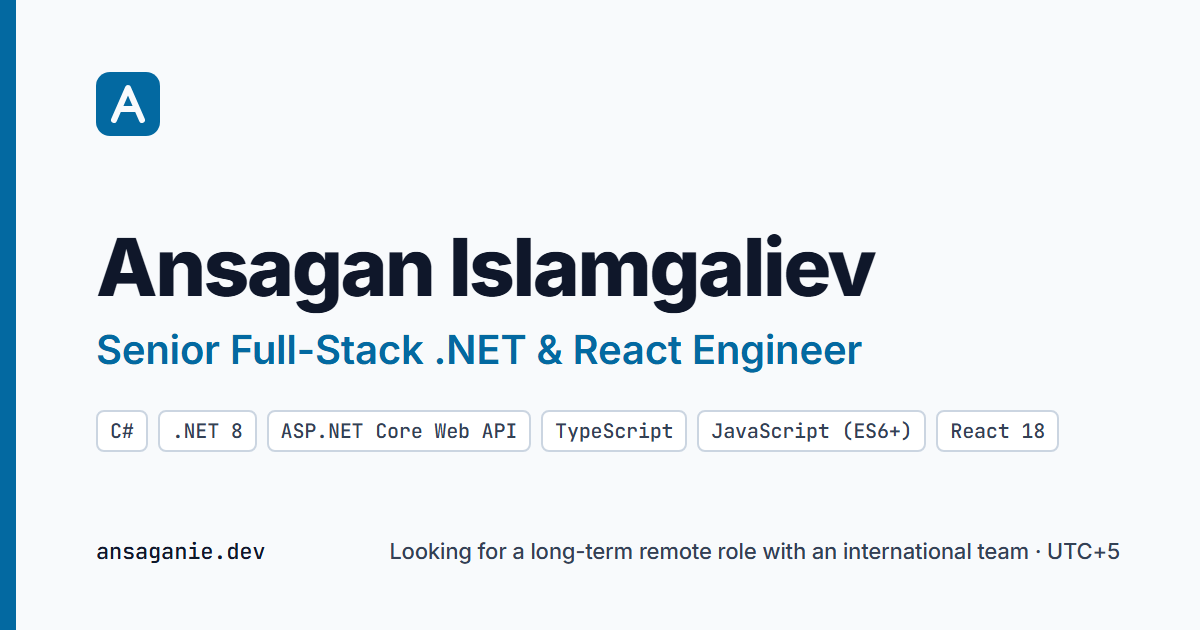
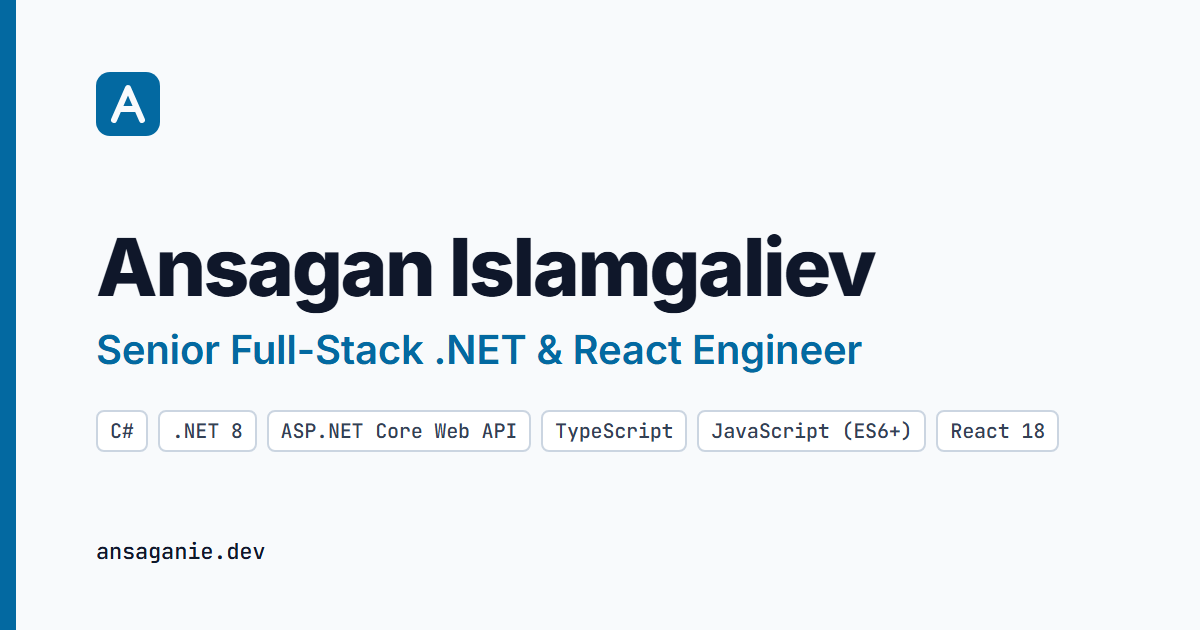
feat(content): update web skills pitch and remove availability badge (#0018) (#7)

Changed region(s): [[0.3083, 0.8444, 0.925, 0.9048]]

diff --git a/src/schemas/cv.ts b/src/schemas/cv.ts
@@ -89,7 +89,7 @@ export const contactInfoSchema = z.object({
   linkedin: z.string().url(),
   github: z.string().url(),
   location: z.string(),
-  availability: z.string(),
+  availability: z.string().optional(),
 });
 
 export const candidateProfileSchema = z.object({

diff --git a/scripts/og-image.html b/scripts/og-image.html
@@ -88,7 +88,6 @@
     </main>
     <footer>
       <span class="url">{{host}}</span>
-      <span>{{availability}}</span>
     </footer>
   </body>
 </html>

diff --git a/docs/wayfinder/MAP.md b/docs/wayfinder/MAP.md
@@ -39,6 +39,7 @@ A production-deployed, multilingual (`/`, `/ru`, `/kk`) 2-page Live CV website (
 - [SEO launch basics](tickets/0012-seo-launch-basics.md): every URL ends in a slash (`trailingSlash` in Astro and Vercel), and nav, switcher, canonical, hreflang and the sitemap come from one `astro:i18n`-based helper. Added `@astrojs/sitemap` with i18n, `robots.txt`, a trilingual noindex 404, favicon SVG/ICO/touch icon, and a 1200×630 English `og:image` with `summary_large_image` and `og:locale:alternate`, rendered by `deno task generate:images`. On branch `feat/0012-seo-launch-basics`; production check after merge.
 - [Custom domain ansaganie.dev](../adr/0004-custom-domain-ansaganie-dev.md) (ADR 0004): registered `ansaganie.dev` at Cloudflare Registrar, assigned to Vercel with DNS-only CNAME records pointing to Vercel edge, and updated all canonical origins across the project (`astro.config.mjs`, `BaseLayout.astro`, `robots.txt`, `og-image.png`, `deploy.yml`, and README badges) to `https://ansaganie.dev`. `www.ansaganie.dev` and `ansaganie.vercel.app` redirect (308) to apex.
 - [Search engine registration](tickets/0017-search-engine-registration.md): verified site ownership and submitted sitemap to Google Search Console and Bing Webmaster Tools; deployed IndexNow key and automated post-deploy URL submission to api.indexnow.org; aligned off-site profile URLs on LinkedIn and GitHub to https://ansaganie.dev.
+- [New content grilling](tickets/0018-content-grilling.md): resolved all postponed audit items (D5) via HITL grilling. R-H1 (case-study pages) and R-H3 (public writing) ruled out of scope to preserve strictly 2 pages; R-M1 (expandable card fields) and R-H2 (photo & narrative block) rejected to keep scannability and ATS alignment. Completely eliminated availability status badge and metadata; updated elevator pitch to a general web-only skills introduction across EN, RU, and KK without company names.
 
 ## Tickets
 
@@ -59,7 +60,7 @@ A production-deployed, multilingual (`/`, `/ru`, `/kk`) 2-page Live CV website (
 - [x] [JSON-LD rebuild](tickets/0015-json-ld-rebuild.md) (`wayfinder:task`, AFK)
 - [x] [Overview visual pass](tickets/0016-overview-visual-pass.md) (`wayfinder:task`, AFK)
 - [x] [Search engine registration](tickets/0017-search-engine-registration.md) (`wayfinder:task`, HITL)
-- [ ] [New content grilling](tickets/0018-content-grilling.md) (`wayfinder:grilling`, HITL). Deferred (audit D5)
+- [x] [New content grilling](tickets/0018-content-grilling.md) (`wayfinder:grilling`, HITL)
 
 ## Not yet specified
 
@@ -70,3 +71,5 @@ A production-deployed, multilingual (`/`, `/ru`, `/kk`) 2-page Live CV website (
 - Dynamic backend / CMS server infrastructure (the site is static-first only).
 - Public blogging platform or commenting systems (scope is limited to the 2-page Live CV and Overview).
 - Buying and attaching a custom domain: completed in [ADR 0004](../adr/0004-custom-domain-ansaganie-dev.md) (`ansaganie.dev`).
+- Dedicated case-study subpages (R-H1): preserves the strictly 2-page Live CV architecture (Overview & CV) and avoids enterprise NDA / translation overhead.
+- Authoring new external technical blog posts / articles (R-H3): outside website repository scope.

diff --git a/docs/wayfinder/tickets/0018-content-grilling.md b/docs/wayfinder/tickets/0018-content-grilling.md
@@ -3,8 +3,8 @@
 Part of [Wayfinder Map](../MAP.md)
 
 - **Type**: wayfinder:grilling (HITL)
-- **Status**: open (deferred by the owner on 2026-10-10, audit D5)
-- **Assignee**: unassigned
+- **Status**: completed
+- **Assignee**: Ansagan Islamgali (HITL) & agent:wayfinder
 - **Blocked by**: none
 
 ## Question
@@ -17,3 +17,18 @@ Which of the audit's [postponed items](../../research/portfolio-ux-seo-audit.md#
 - **R-H3:** public .NET write-ups, posted elsewhere and linked from the site.
 
 None of them may bring back time figures (D2).
+
+## Resolution (2026-10-11)
+
+Concluded the HITL content grilling session with owner decisions across all four candidate areas and additional hero copy refinements:
+
+- **R-H1 (Case-study pages)**: Ruled out of scope. Preserved the strictly 2-page Live CV structure (Overview & CV) to avoid scope inflation into a multi-page portfolio and maintain ATS compliance.
+- **R-M1 (Case-study card fields)**: Decided against adding expandable problem/approach/tradeoffs fields to project cards. Kept the clean, scannable card layout established in #0016.
+- **R-H2 (Career narrative & photo)**: Decided against adding a photo or separate narrative block; the site remains photo-less and developer-focused, letting the CV timeline speak for the career transition from wellsite telemetry to software engineering.
+- **R-H3 (Public writing)**: Ruled authoring new external technical articles out of scope for the website map.
+- **Availability removal**: Completely removed the availability badge ("Looking for a long-term remote role with an international team · UTC+5") from the Overview Page hero, made `availability` optional in `src/schemas/cv.ts`, removed it from all datasets (`cv-en.json`, `cv-ru.json`, `cv-kk.json`), cleaned it from `README.md`, and updated `scripts/og-image.html`.
+- **General web-only skills introduction**: Replaced the former enterprise pitch (`"I turn legacy enterprise applications into fast, maintainable .NET and React systems, currently for Chevron and Tengizchevroil."`) with a general web-focused introduction covering full-stack web applications without company names:
+  - **EN**: `"I design and build fast, maintainable, and scalable full-stack web applications across .NET, React, and TypeScript."`
+  - **RU**: `"Проектирую и создаю быстрые, поддерживаемые и масштабируемые full-stack веб-приложения на .NET, React и TypeScript."`
+  - **KK**: `".NET, React және TypeScript стектерінде жылдам, қолдауға ыңғайлы және масштабталатын full-stack веб-қосымшаларды жобалап әзірлеймін."`
+  - Applied across `src/data/cv-*.json`, the Overview hero, SEO meta descriptions, and `README.md`.

diff --git a/README.md b/README.md
@@ -2,7 +2,7 @@
 
 **Senior Full-Stack Developer** at Tengizchevroil / Chevron · Astana, Kazakhstan
 
-I turn legacy enterprise applications into fast, maintainable .NET and React systems, currently for Chevron and Tengizchevroil.
+I design and build fast, maintainable, and scalable full-stack web applications across .NET, React, and TypeScript.
 
 [![Live CV](https://img.shields.io/badge/Live_CV-EN-2563eb?style=for-the-badge)](https://ansaganie.dev/cv/)
 [![Live CV RU](https://img.shields.io/badge/Live_CV-RU-2563eb?style=for-the-badge)](https://ansaganie.dev/ru/cv/)
@@ -44,5 +44,3 @@ Website: <https://ansaganie.dev> (English, Russian, Kazakh; downloadable PDF CV)
 [![LinkedIn](https://img.shields.io/badge/LinkedIn-0A66C2?logo=linkedin&logoColor=white)](https://linkedin.com/in/ansaganie)
 [![Telegram](https://img.shields.io/badge/Telegram-26A5E4?logo=telegram&logoColor=white)](https://t.me/ansaganie)
 [![Email](https://img.shields.io/badge/Email-0078D4?logo=microsoftoutlook&logoColor=white)](mailto:ansaganie@hotmail.com)
-
-Looking for a long-term remote role with an international team · UTC+5.

diff --git a/GLOSSARY.md b/GLOSSARY.md
@@ -29,7 +29,7 @@ A named piece of work (enterprise, commercial or open source) shown on the **Ove
 _Avoid_: Case study (reserved for a future long-form write-up), mission-critical system
 
 **Availability**:
-The single statement of the kind of role the candidate is looking for, shown identically wherever it appears.
+Formerly the statement of candidate role preference; omitted from the site and profile per owner decision.
 _Avoid_: Status, open-to-work badge
 
 **Credential Link**:
